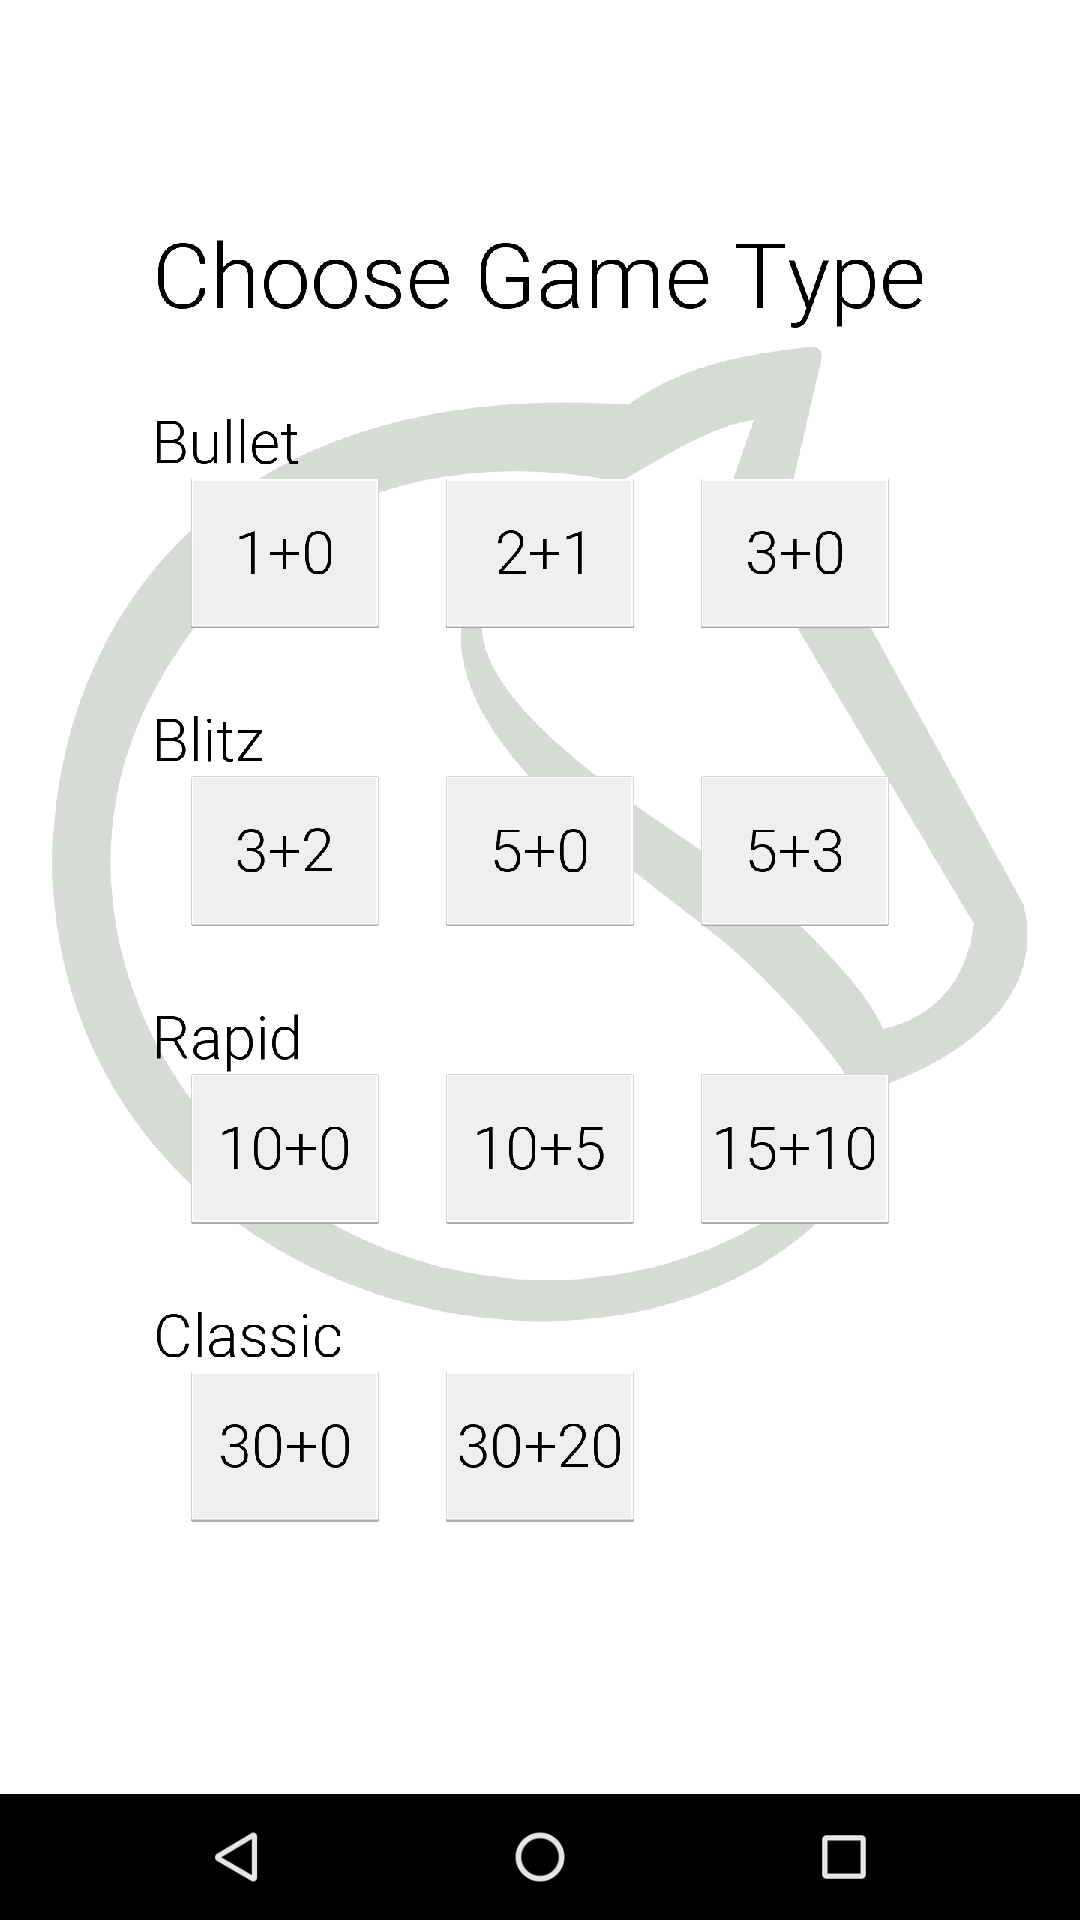
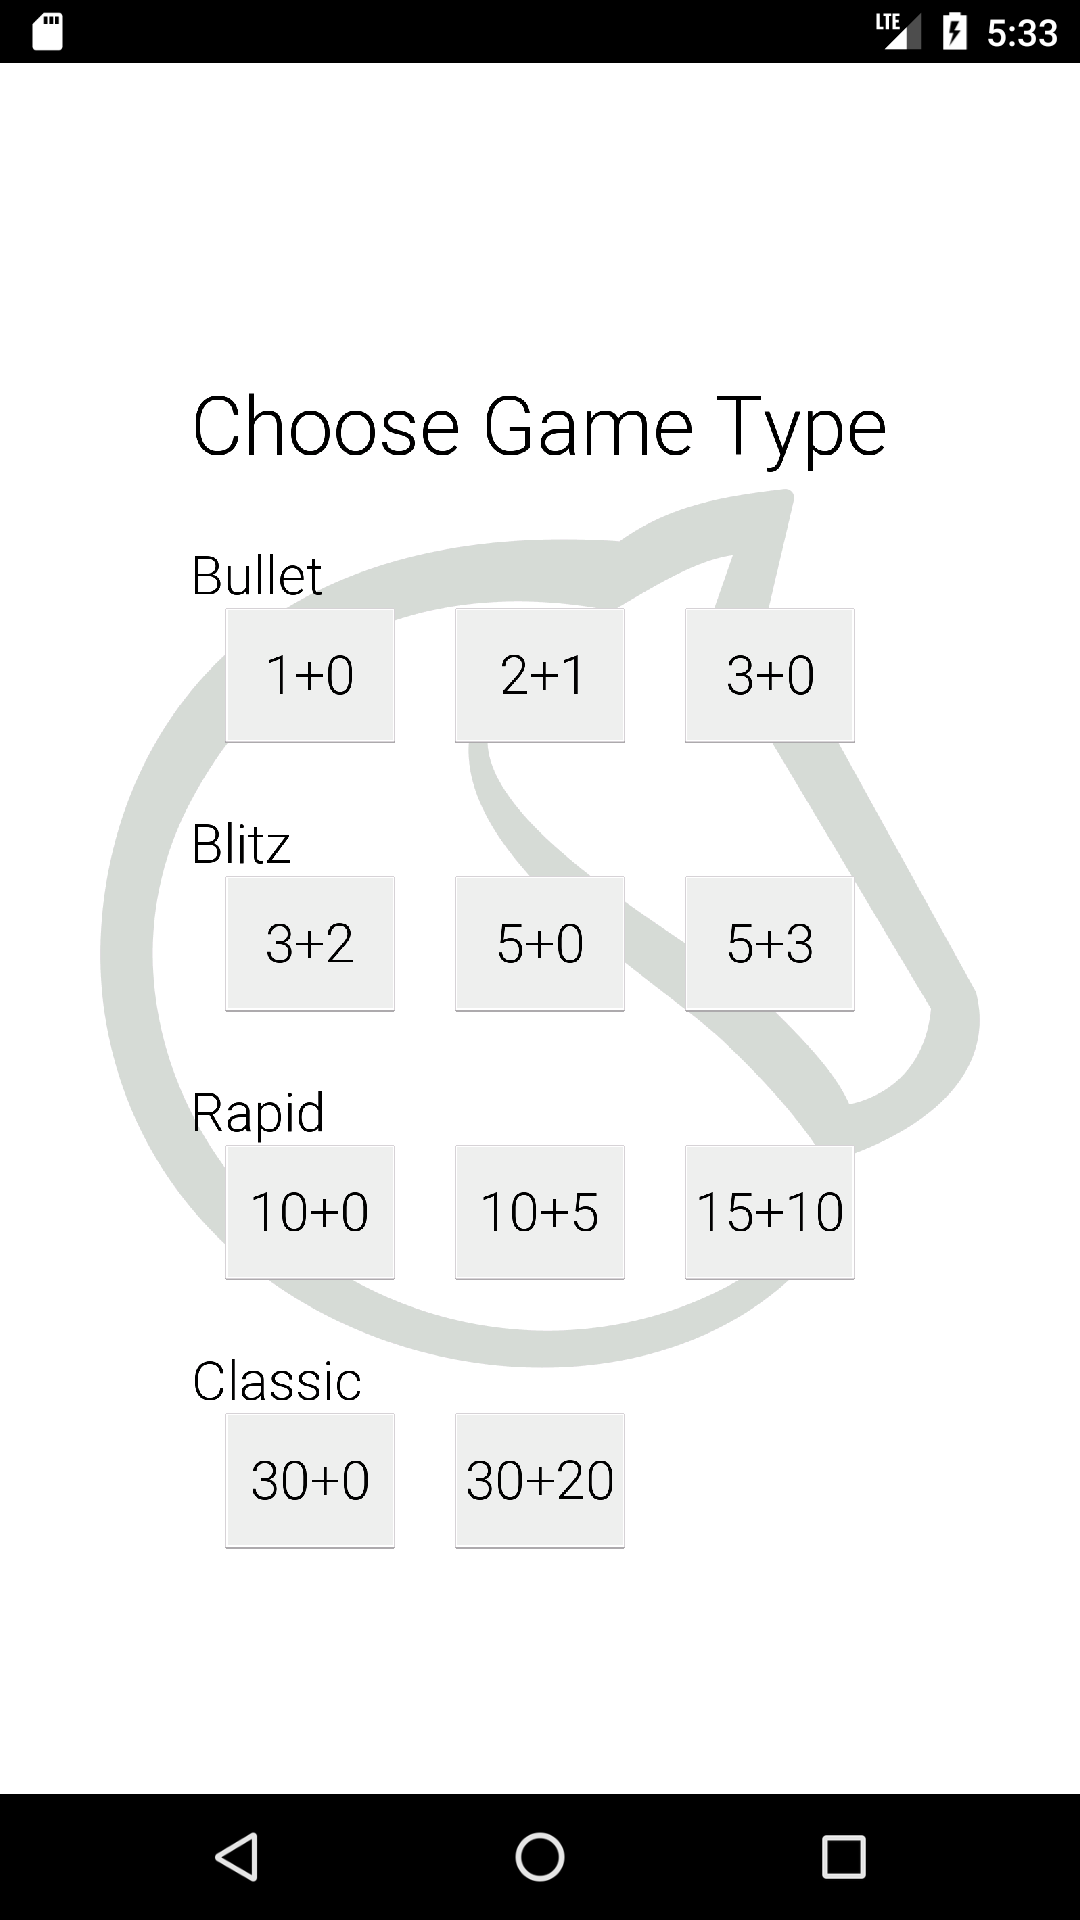
Removed fullscreen mode

diff --git a/android/src/com/emmanuelmess/simplechess/AndroidLauncher.java b/android/src/com/emmanuelmess/simplechess/AndroidLauncher.java
@@ -1,6 +1,7 @@
 package com.emmanuelmess.simplechess;
 
 import android.os.Bundle;
+import android.widget.RelativeLayout;
 
 import com.badlogic.gdx.backends.android.AndroidApplication;
 import com.badlogic.gdx.backends.android.AndroidApplicationConfiguration;
@@ -9,6 +10,11 @@ public class AndroidLauncher extends AndroidApplication {
 	protected void onCreate (Bundle savedInstanceState) {
 		super.onCreate(savedInstanceState);
 		AndroidApplicationConfiguration config = new AndroidApplicationConfiguration();
-		initialize(new SimpleChessGame(), config);
+		config.useAccelerometer = false;
+		config.useCompass = false;
+		config.numSamples = 2;
+		RelativeLayout layout = new RelativeLayout(this);
+		layout.addView(initializeForView(new SimpleChessGame(), config));
+		setContentView(layout);
 	}
 }
